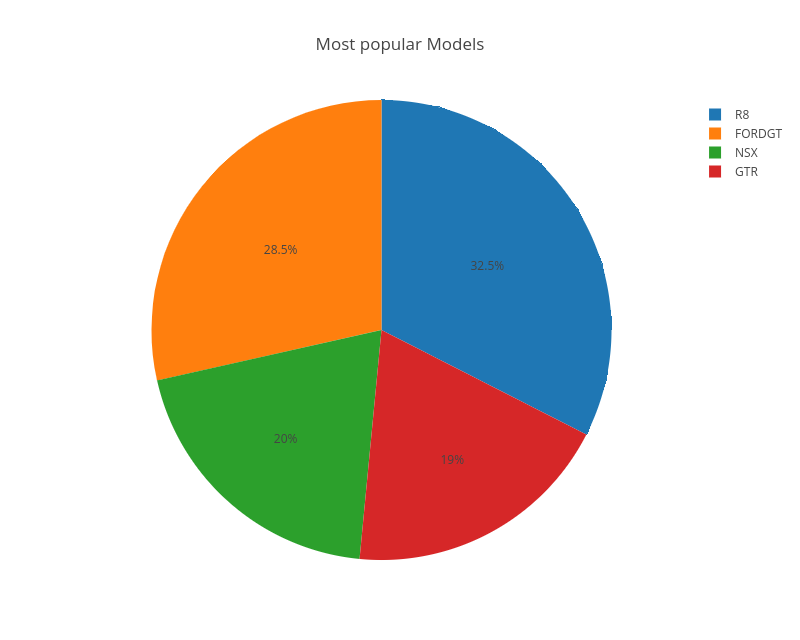
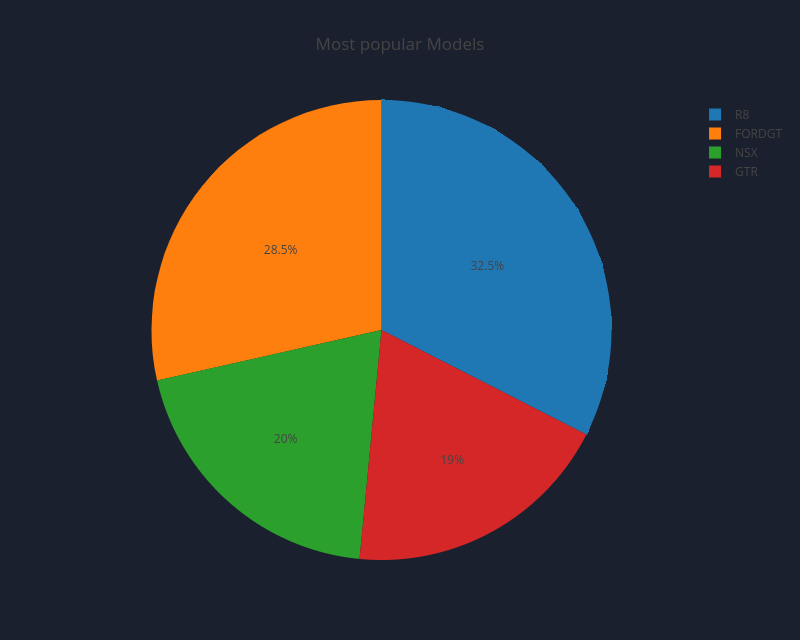
finished the style on the home page

diff --git a/my_mrp/my_mrp/static/layout.css b/my_mrp/my_mrp/static/layout.css
@@ -11,7 +11,7 @@
     top: 2px;
     width: 100%;
     height: 100px;
-    font-family: 'Titan One', cursive;
+    font-family: 'Boogaloo', cursive;
     color: rgb(102, 231, 203);
 }
 
@@ -22,6 +22,10 @@
     width: 80px;
 }
 
+.nav-bar li {
+    margin-bottom: 4px;
+}
+
 #main-title {
     font-family: 'Boogaloo', cursive;
     color: rgb(73, 205, 223);
@@ -29,27 +33,38 @@
     left: 60px;
     top: 10px;
 }
+
+#main-title-l {
+    font-family: 'Boogaloo', cursive;
+    color: rgb(73, 205, 223);
+    position: absolute;
+    left: 83px;
+    top: 42px;
+}
+
 #main_nav {
     position: absolute;
-    top: 2px; right: 20px;
+    top: 12px; right: 40px;
     color: aquamarine;
+    font-size: 30px;
 }
 
 #anon-welcome {
     position: absolute;
-    top: 32px;
-    right: 11%;
+    top: 45px;
+    right: 44%;
 }
 
 #welcome {
     position: absolute;
-    top: 44px;
+    top: 32px;
     left: 20%;
-    font-family: 'Permanent Marker', cursive;
+    font-family: 'Boogaloo', cursive;
+    font-size: 40px;
     color: aliceblue;
 }
 .left-box {
-    background-color: rgb(121, 223, 201);
+    background-color: rgb(52, 156, 134);
     position: absolute;
     top: 100px; left: 1%;
     width: 49%;

diff --git a/my_mrp/my_mrp/static/modules.css b/my_mrp/my_mrp/static/modules.css
@@ -19,3 +19,38 @@
 .login-form form [type="submit"] {
     margin-left: 155px;
 }
+
+#pie-chart {
+    position: absolute;
+    right: 40px;
+}
+
+#list {
+    position: absolute;
+    top: 500px;
+    left: 225px;
+    font-family: 'Fira Sans Extra Condensed', sans-serif;
+    font-size: 40px;
+    border-radius: 5px;
+    background-color: rgb(27, 32, 46);
+    border: none;
+}
+
+#list a {
+    color: rgb(52, 156, 134);
+}
+
+#create {
+    position: absolute;
+    top: 500px;
+    right: 166px;
+    font-family: 'Fira Sans Extra Condensed', sans-serif;
+    font-size: 40px;
+    border-radius: 5px;
+    background-color: rgb(52, 156, 134);
+    border: none;
+}
+
+#create a {
+    color: rgb(27, 32, 46);
+}

diff --git a/my_mrp/my_mrp/templates/generic/home.html b/my_mrp/my_mrp/templates/generic/home.html
@@ -9,8 +9,8 @@
         <button id="list"><a href="{% url "quote_list" %}">My Quotes</a></button>
     </div>
     <div class="right-box">
-    <button id-"create"><a href="{% url "select_model" %}">Create a new quote</a></button>
-    <img style="float:right "src="{% static "popular_models.png" %}" height="350" width="500">
+    <button id="create"><a href="{% url "select_model" %}">Create a New Quote</a></button>
+    <img id="pie-chart" src="{% static "popular_models.png" %}" height="350" width="500">
     </div>
   </body>
     {%else%}

diff --git a/my_mrp/my_mrp/templates/generic/base.html b/my_mrp/my_mrp/templates/generic/base.html
@@ -16,7 +16,8 @@
   <header>
     <nav class="nav-bar">
       <img id="logo" src="{% static "logo1.png" %}" alt="logo">
-      <h1 id="main-title">My MRP</h1>
+      <h1 id="main-title">My</h1>
+      <h1 id="main-title-l">MRP</h1>
       <ul id="main_nav">
         <li><a class="sky" href="{% url "home" %}">Home</a></li>
         {% if user.is_authenticated %}

diff --git a/my_mrp/my_mrp/views.py b/my_mrp/my_mrp/views.py
@@ -41,7 +41,7 @@ def createGraph():
         trace = go.Pie(labels=list(sales.keys()), values=list(sales.values()))
 
         # GRAPH DIMENSION.
-        layout = go.Layout(title='Most popular Models', width=800, height=640)
+        layout = go.Layout(title='Most popular Models', width=800, height=640, paper_bgcolor='rgb(27, 32, 46)')
         fig = go.Figure(data=[trace], layout=layout)
 
         # Creates graph and saves it to the project.
@@ -52,4 +52,4 @@ def createGraph():
     finally:
         print('Finished Executing createGraph()')
 
-# createGraph()
+createGraph()
